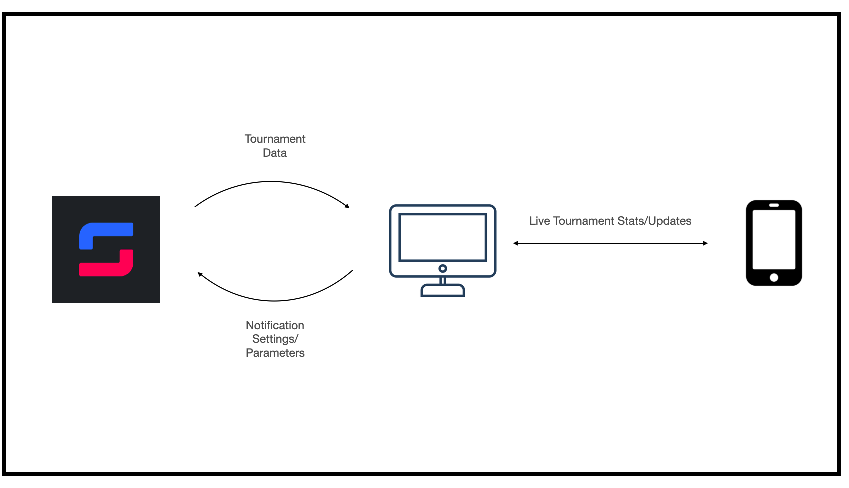
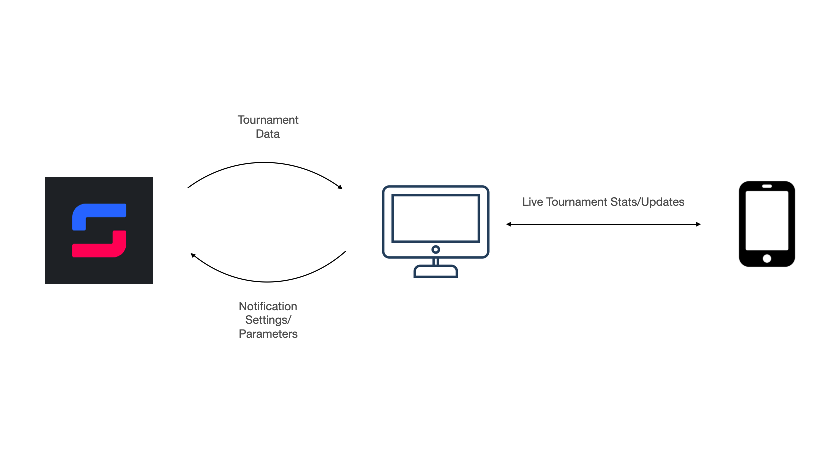
diagram border and font sizing

diff --git a/index.html b/index.html
@@ -1,18 +1,26 @@
 <!DOCTYPE html>
 <html lang="en">
   <head>
+    <style>
+        body {
+            background-color: (256,256,255);
+        }
+    </style>
     <meta charset="UTF-8">
     <title>Meeting Minutes</title>
     <link rel="icon" href="ssbu.ico">
+    <link rel="stylesheet" href="style.css">
   </head>
-  <body>
+  <body >
     <div>
-        <h1>SSBU Tournament Notification System -  Brainstorm Meeting</h1>
+        <div id="head-title">
+            <h1 style="color: black; font-size: 6vmin;">SSBU Tournament Notification System -  Brainstorm Meeting</h1>
+        </div>
         <hr>
         <h3>Date: July 10, 2015</h3>
 
         <span><b>Attendance List</b></span>
-        <ul> 
+        <ul class="lists"> 
             <li>Gavyn E.</li>
             <li>Ashish D.</li>
             <li>Will K.</li>
@@ -32,13 +40,13 @@
         </nav>
     </header>
     <main>
-        <section id="idea">
+        <section class="minutes-section">
             <h2>Basic Idea</h2>
             <p>
                 Create a <strong>notification system</strong> for avid Smash Ultimate tournament fans.
             </p>
         </section>
-        <section id="features">
+        <section class="minutes-section">
             <h2>Details</h2>
             <details>
                 <summary>Tournament and Player Preferences</summary>
@@ -52,15 +60,14 @@
             </details>
 
         </section>
-        <section id="diagram">
+        <section class="minutes-section">
             <h2>Diagram</h2>
-            <img src="Diagram.png" alt="diagram">
-            
+            <img id="diagram" src="Diagram.png" alt="diagram">
             <br>
 
             <small><i>Drawn by Gavyn E.</i></small>
         </section>
-        <section id="steps">
+        <section class="minutes-section">
             <h2>Next Steps</h2>
             <ol>
                 <li>Plan out tech stack</li>

diff --git a/style.css b/style.css
@@ -1,0 +1,23 @@
+/* adding border to image in site */
+html {
+    font-size: 18px;
+}
+h1 {
+    font-size: 5vmin;
+}
+h3 {
+    font-size: 5vh;
+}
+#diagram {
+    border-style: solid;
+    border-color: #5FB2F2;
+    border-width: 0.08cm;
+    border-radius: 5px
+}
+.minutes-section {
+    margin: 0.25in;
+}
+
+.lists li {
+    font-size: 0.9em;
+}
